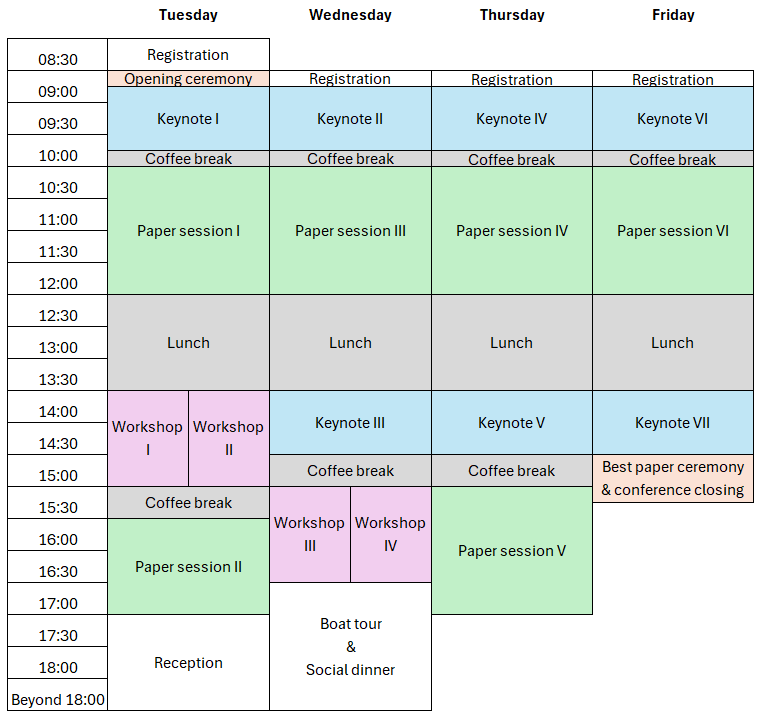
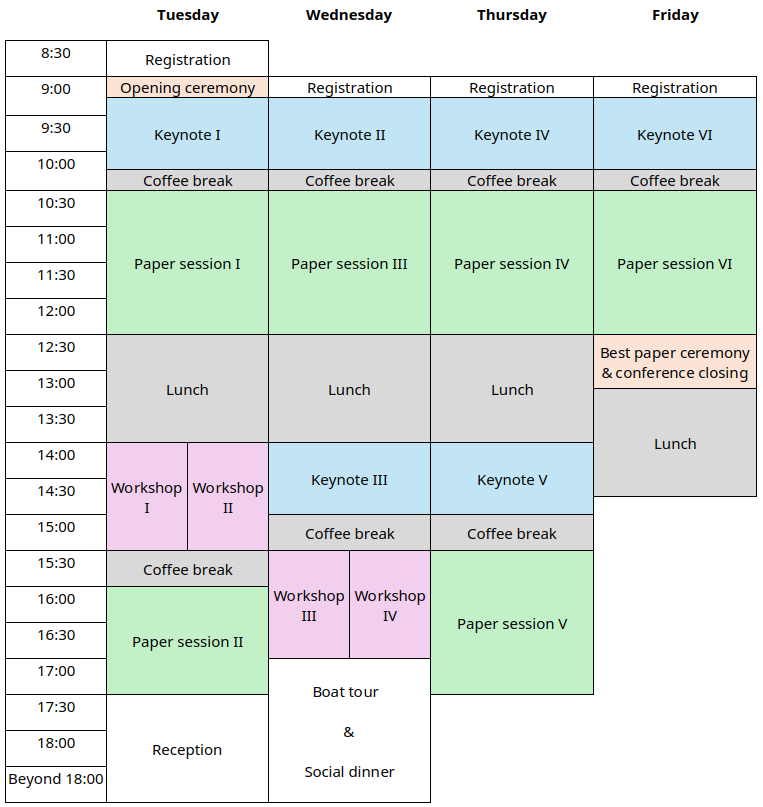
updated programme

diff --git a/_pages/programme.md b/_pages/programme.md
@@ -115,6 +115,8 @@ toc_sticky: true
 * *Metehan Gelgi, Maria Papaioannou and Nicola Dragoni*: Toward Cost-Effective Secure Multi-Site Connectivity: Evaluating NSA’s CSfC-Compliant Open-Source and Commercial Solutions
 * *Jed Boufaied and Vicenç Torra*: On Explanations And Privacy: An AIT Approach
 
-**12:30 -- 14:00**: Lunch break
+**12:30 -- 13:00**: Best paper ceremony & closing remarks
 
-**14:00 -- 15:00**: Best paper ceremony & closing remarks
+**13:00 -- 14:00**: Lunch break
+
+
